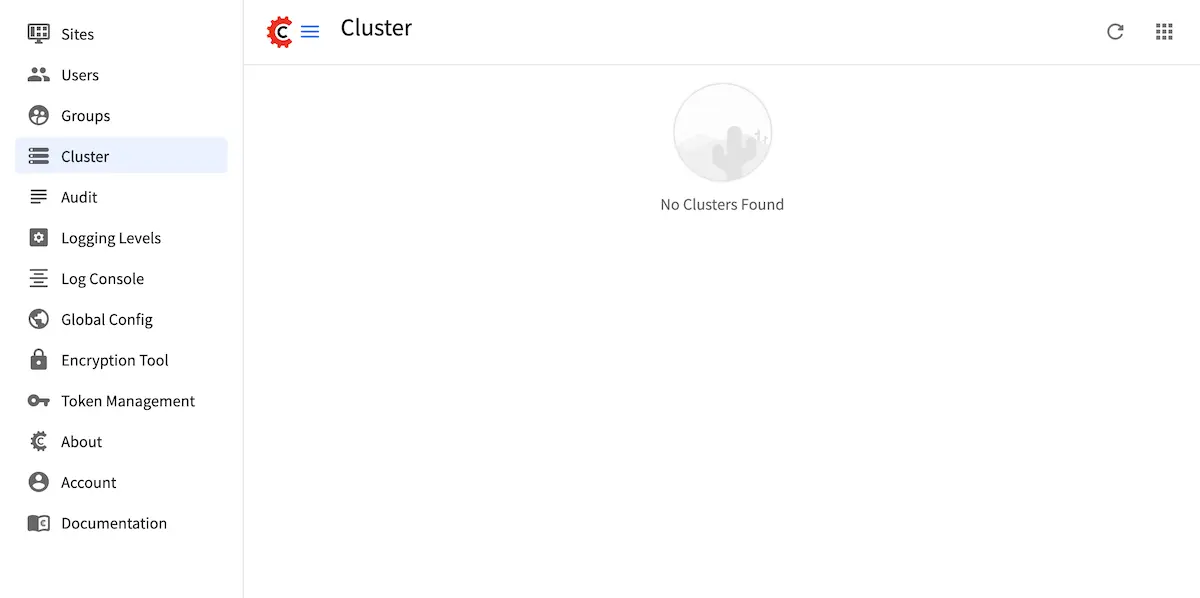
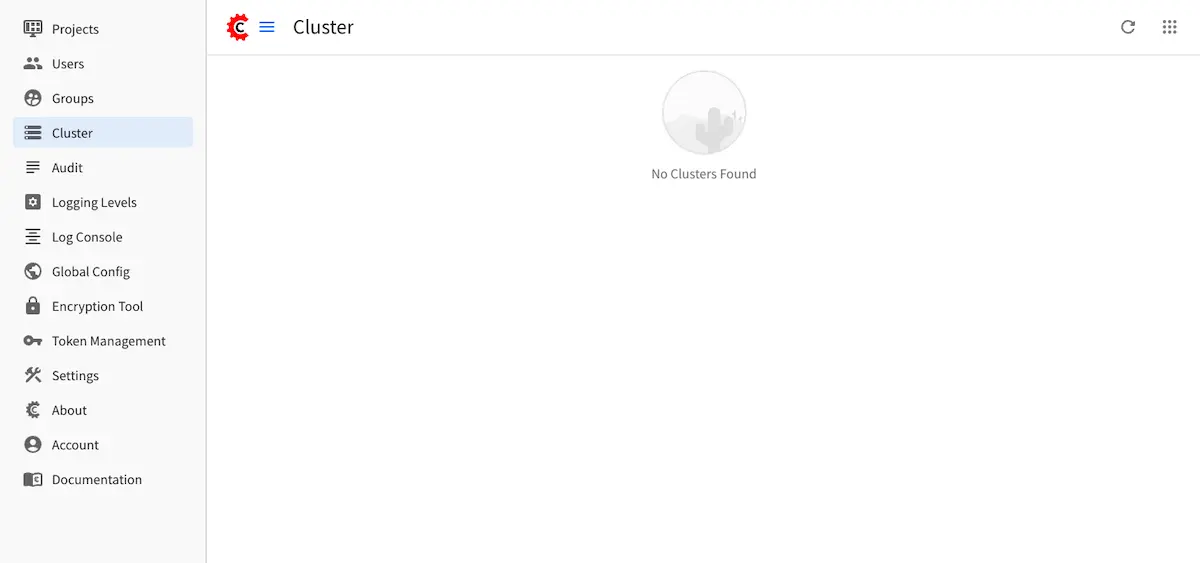
Add maintenance mode (#2079)
* Add maintenance mode

* Add some more text and links

---------

diff --git a/source/reference/modules/studio.rst b/source/reference/modules/studio.rst
@@ -5954,6 +5954,7 @@ To access the Global Config, click on the ``Navigation Menu`` icon at the top ri
 
 To find out more on what you can configure from the Global Config, see :ref:`studio-config`.
 
+|
 
 .. _main-menu-tool-encryption-tool:
 
@@ -5971,6 +5972,8 @@ The ``Encryption Tool`` allows the user to encrypt sensitive data such as access
 
 For more information on how to use the encryption tool, see :ref:`studio-encryption-tool`.
 
+|
+
 .. _nav-menu-token-management:
 
 """"""""""""""""
@@ -5985,6 +5988,8 @@ create tokens for accessing a project/site in Preview.
     :width: 70%
 
 |
+
+For more information on configuring settings for the Studio access tokens, see :ref:`studio-access-tokens`
 
 .. _api-token:
 
@@ -6058,6 +6063,8 @@ To disable/enable a token, simply click on the slider on the right side of the t
 
 .. note:: Users needs the ``manage_access_token`` permission to create access tokens
 
+|
+
 .. _preview-token:
 
 ~~~~~~~~~~~~~
@@ -6115,6 +6122,58 @@ Here's an example of using the token with Curl, where ``{Generated-Preview-Token
 
 
 The dialog above that shows the preview token generated also shows other examples on how to use the preview token.
+
+|
+
+.. _settings:
+
+"""""""""""""""""""""""""
+Settings |enterpriseOnly|
+"""""""""""""""""""""""""
+.. version_tag::
+    :label: Since
+    :version: 4.5.0
+
+The ``Settings Tool``  allows the user to configure system settings, such as enabling/disabling maintenance mode.
+
+.. image:: /_static/images/system-admin/main-menu/main-menu-settings.webp
+    :alt: System Administrator - Navigation Menu Settings Tool
+    :align: center
+    :width: 70%
+
+|
+
+~~~~~~~~~~~~~~~~
+Maintenance Mode
+~~~~~~~~~~~~~~~~
+Maintenance mode is a status that tells users that your CrafterCMS install is under maintenance and temporarily unavailable.
+Turning on maintenance mode when making updates, functionality modifications or design changes to your CrafterCMS install
+helps prevent errors and issues and allows for a smooth user experience.
+
+To enable/disable maintenance mode, simply toggle the switch to on or off.
+
+.. image:: /_static/images/system-admin/main-menu/maintenance-mode-on.webp
+    :alt: System Administrator - Maintenance mode toggle switch
+    :align: center
+    :width: 70%
+
+|
+
+When turning on maintenance mode, a dialog will appear to confirm you want to turn on maintenance mode.
+
+.. image:: /_static/images/system-admin/main-menu/maintenance-mode-on-confirmation.webp
+    :alt: System Administrator - Maintenance mode on confirmation dialog
+    :align: center
+    :width: 70%
+
+|
+
+Once maintenance mode is enabled, the UI will show a maintenance mode screen informing users that the system is
+temporarily unavailable, as seen here: :ref:`author-maintenance-mode`.
+For users with the ``allowed_in_maintenance`` permission, access to Crafter Studio/system APIs is still available
+during maintenance mode.
+
+|
 
 """""""
 Account

diff --git a/source/by-role/author/index.rst b/source/by-role/author/index.rst
@@ -1,5 +1,5 @@
 :is-up-to-date: True
-:last-updated: 4.2.0
+:last-updated: 4.5.0
 
 .. _author:
 
@@ -593,6 +593,49 @@ width on your browser
 .. |publishLive| image:: /_static/images/content-author/publish-target-icon-live.webp
              :width: 9%
              :alt: Item Types Icons - Live
+
+|
+
+.. _author-maintenance-mode:
+
+^^^^^^^^^^^^^^^^^^^^^^^^^^^^^^^^^
+Maintenance Mode |enterpriseOnly|
+^^^^^^^^^^^^^^^^^^^^^^^^^^^^^^^^^
+.. version_tag::
+    :label: Since
+    :version: 4.5.0
+
+Maintenance mode is a status that tells authors that Crafter Studio is under maintenance and temporarily unavailable.
+
+When maintenance mode is enabled while an author is working on a project, a popup informing the author that the system is
+in maintenance mode will appear like below:
+
+.. image:: /_static/images/content-author/maintenance-mode-on-while-working.webp
+    :width: 65 %
+    :align: center
+    :alt: Navigating Studio - Maintenance mode on popup while working
+
+|
+
+When maintenance mode is enabled, the login screen indicates to the user that the system is under maintenance:
+
+.. image:: /_static/images/content-author/maintenance-mode-on-login.webp
+    :width: 65 %
+    :align: center
+    :alt: Navigating Studio - Maintenance mode on full screen message
+
+|
+
+After logging in when the system is in maintenance mode, this is the screen displayed:
+
+.. image:: /_static/images/content-author/maintenance-mode-on-fullscreen.webp
+    :width: 95 %
+    :align: center
+    :alt: Navigating Studio - Maintenance mode on full screen message
+
+|
+
+For more information on enabling/disabling maintenance mode, see :ref:`System Settings <settings>`.
 
 |hr|
 

diff --git a/source/includes/available-permissions-system-scope.rst b/source/includes/available-permissions-system-scope.rst
@@ -107,3 +107,18 @@ The system level (global) permissions are defined in the file ``global-permissio
         - :base_url:`Get all the members of the cluster <_static/api/studio.html#tag/cluster/operation/getClusterMembers>`
     * - write_global_configuration
       - User is permitted to write global configuration content for Studio
+    * - system_properties_manage
+      - User is allowed to update, write or delete system properties. |br|
+        Required when using the following APIs:
+
+        - :base_url:`Update system properties <_static/api/studio.html#tag/system/operation/updateSystemProperties>`
+        - :base_url:`Set system maintenance mode status <_static/api/studio.html#tag/system/operation/setMaintenanceMode>` |enterpriseOnly|
+
+    * - system_properties_read
+      - User is allowed to read system properties. |br|
+        Required when using the following API:
+
+        - :base_url:`Read system properties <_static/api/studio.html#tag/system/operation/getSystemProperties>`
+
+    * - allowed_in_maintenance |enterpriseOnly|
+      - User is allowed to access the system APIs during maintenance mode |br|
